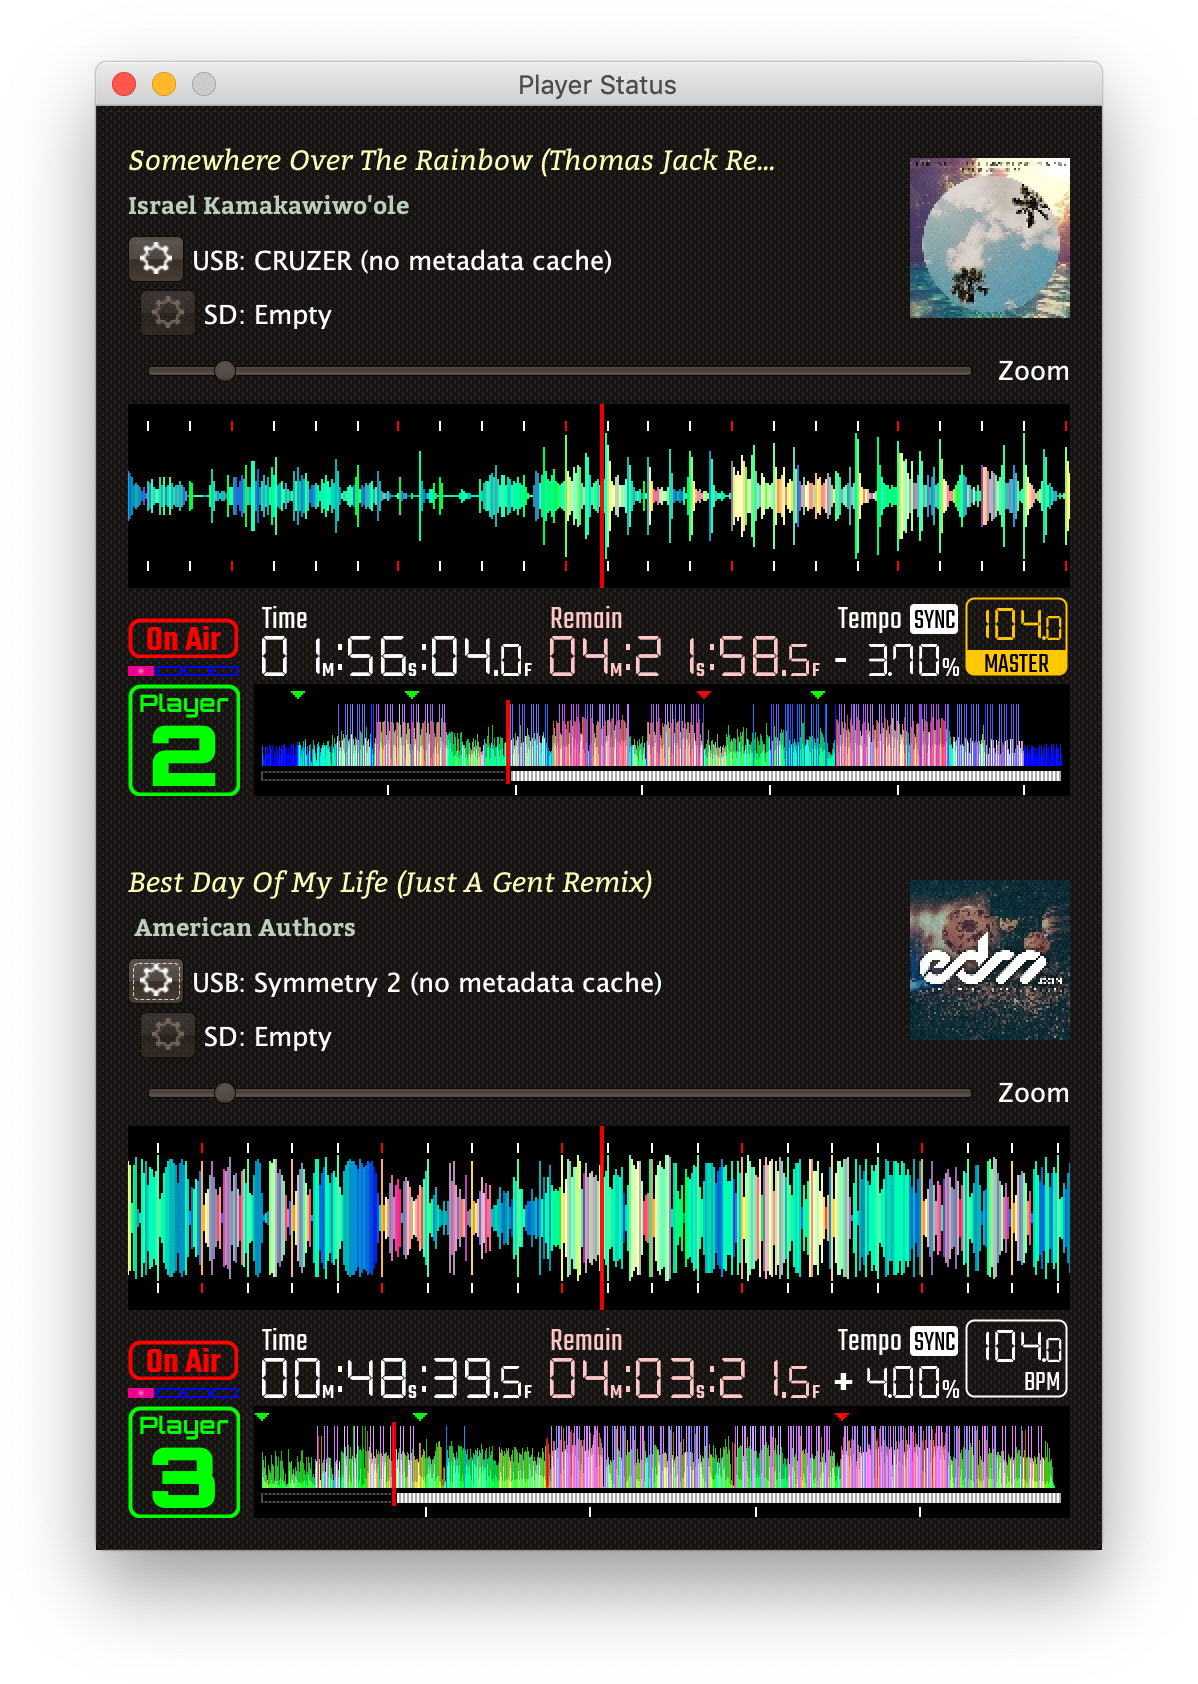
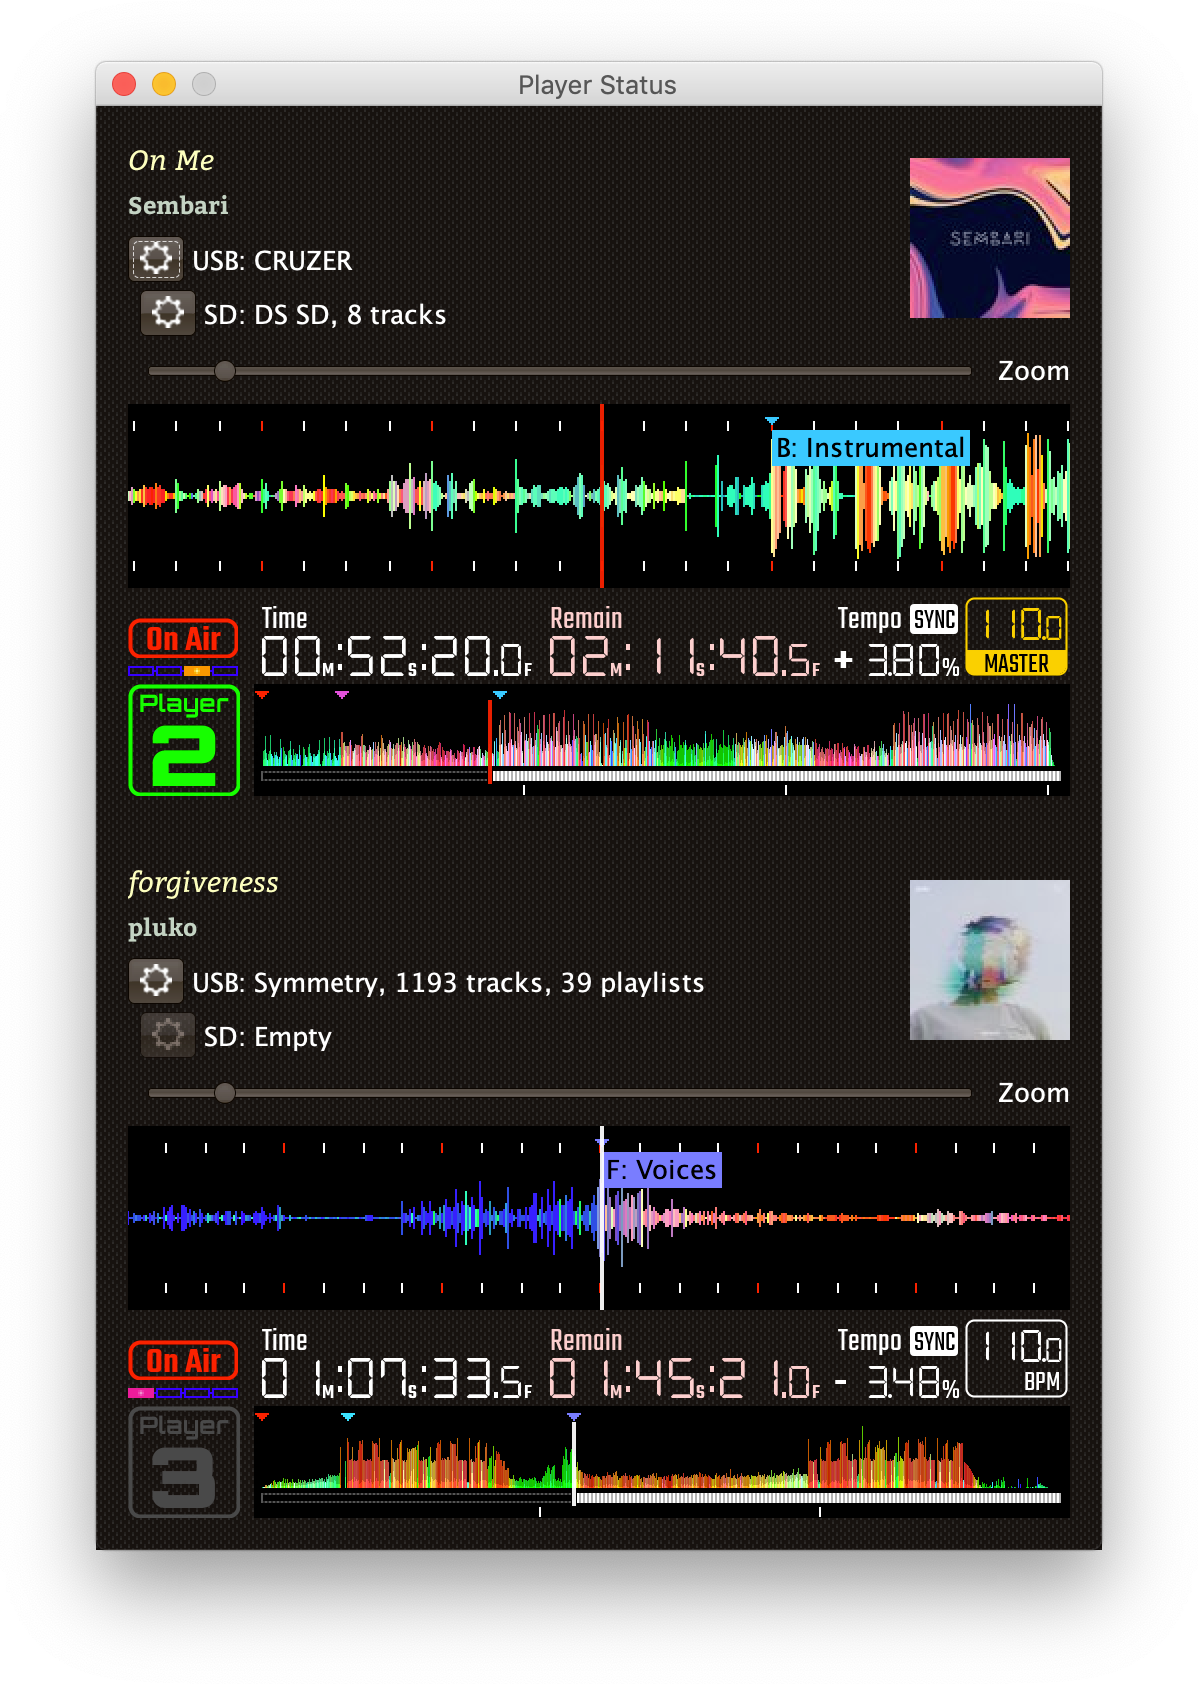
Update player status picture and description, #76

diff --git a/CHANGELOG.md b/CHANGELOG.md
@@ -34,6 +34,13 @@ This change log follows the conventions of
   titles with BPM information embedded in them (a response format that
   we had not previously seen).
 
+### Changed
+
+- No longer display "(no metadata cache)" next to media names in the
+  Player Status window, because there is no reason for people to use
+  metadata caches now that we can use Crate Digger to reliably obtain
+  metadata on demand.
+
 
 ## [0.5.3] - 2019-05-30
 
